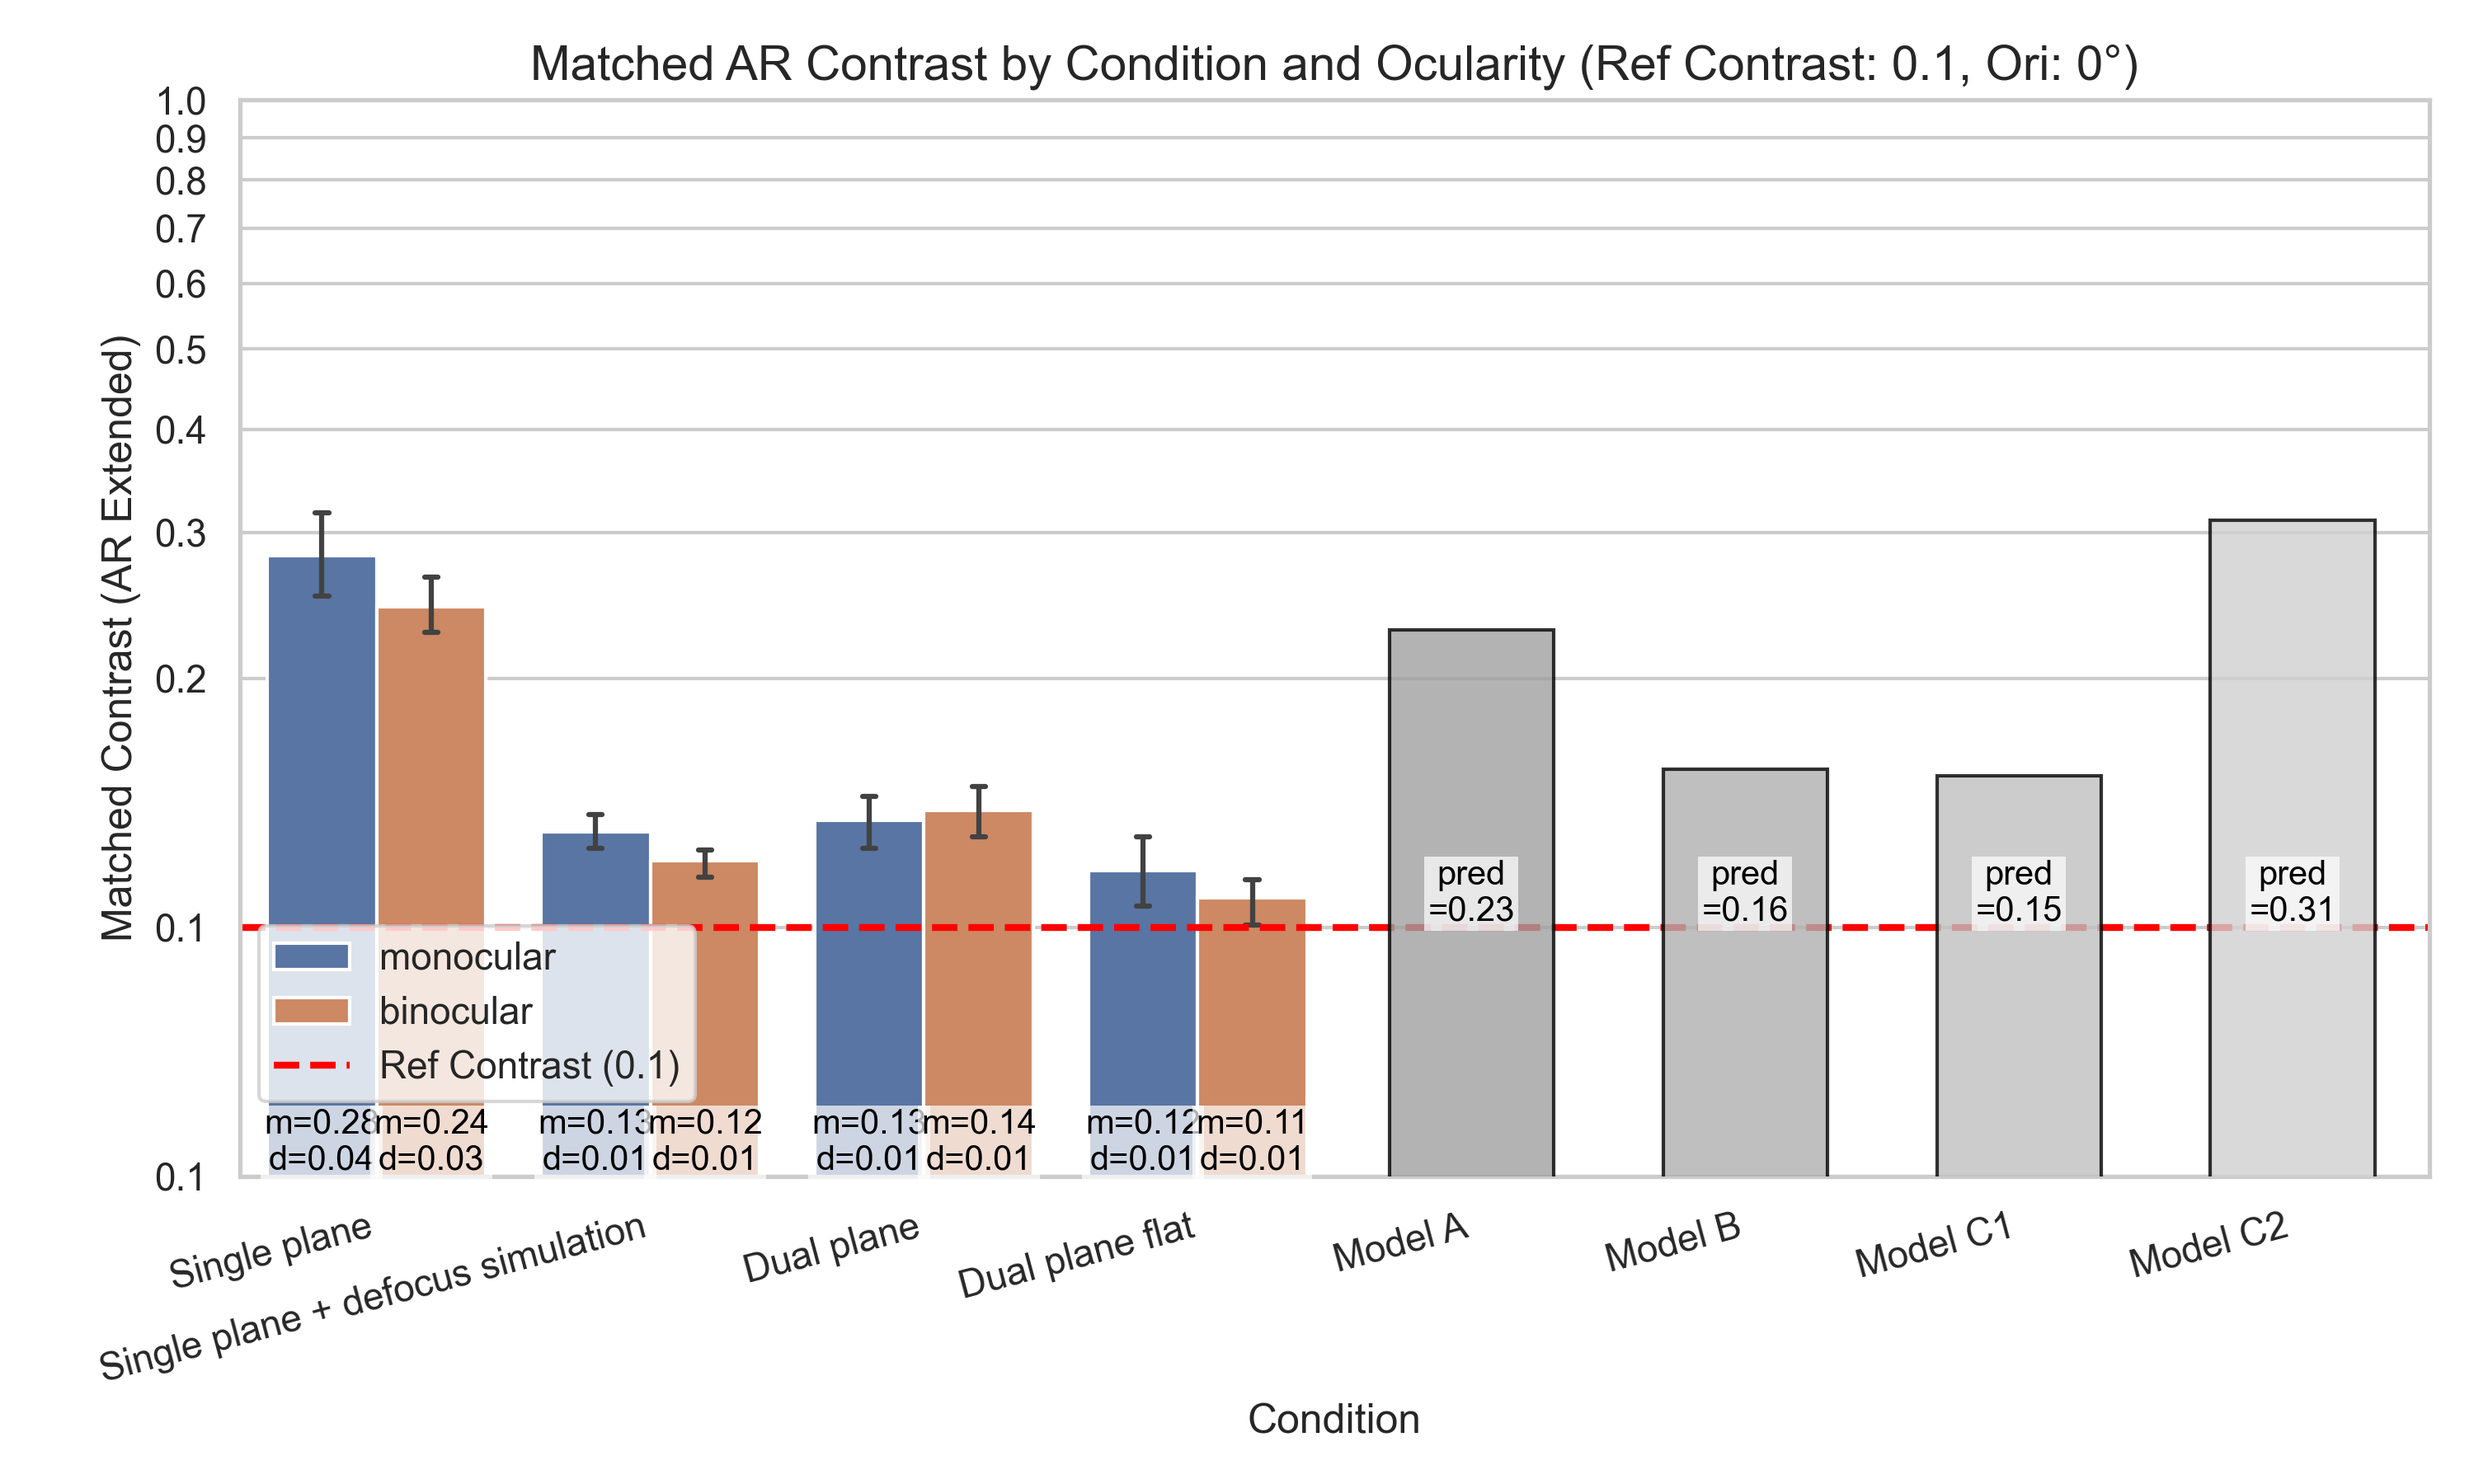
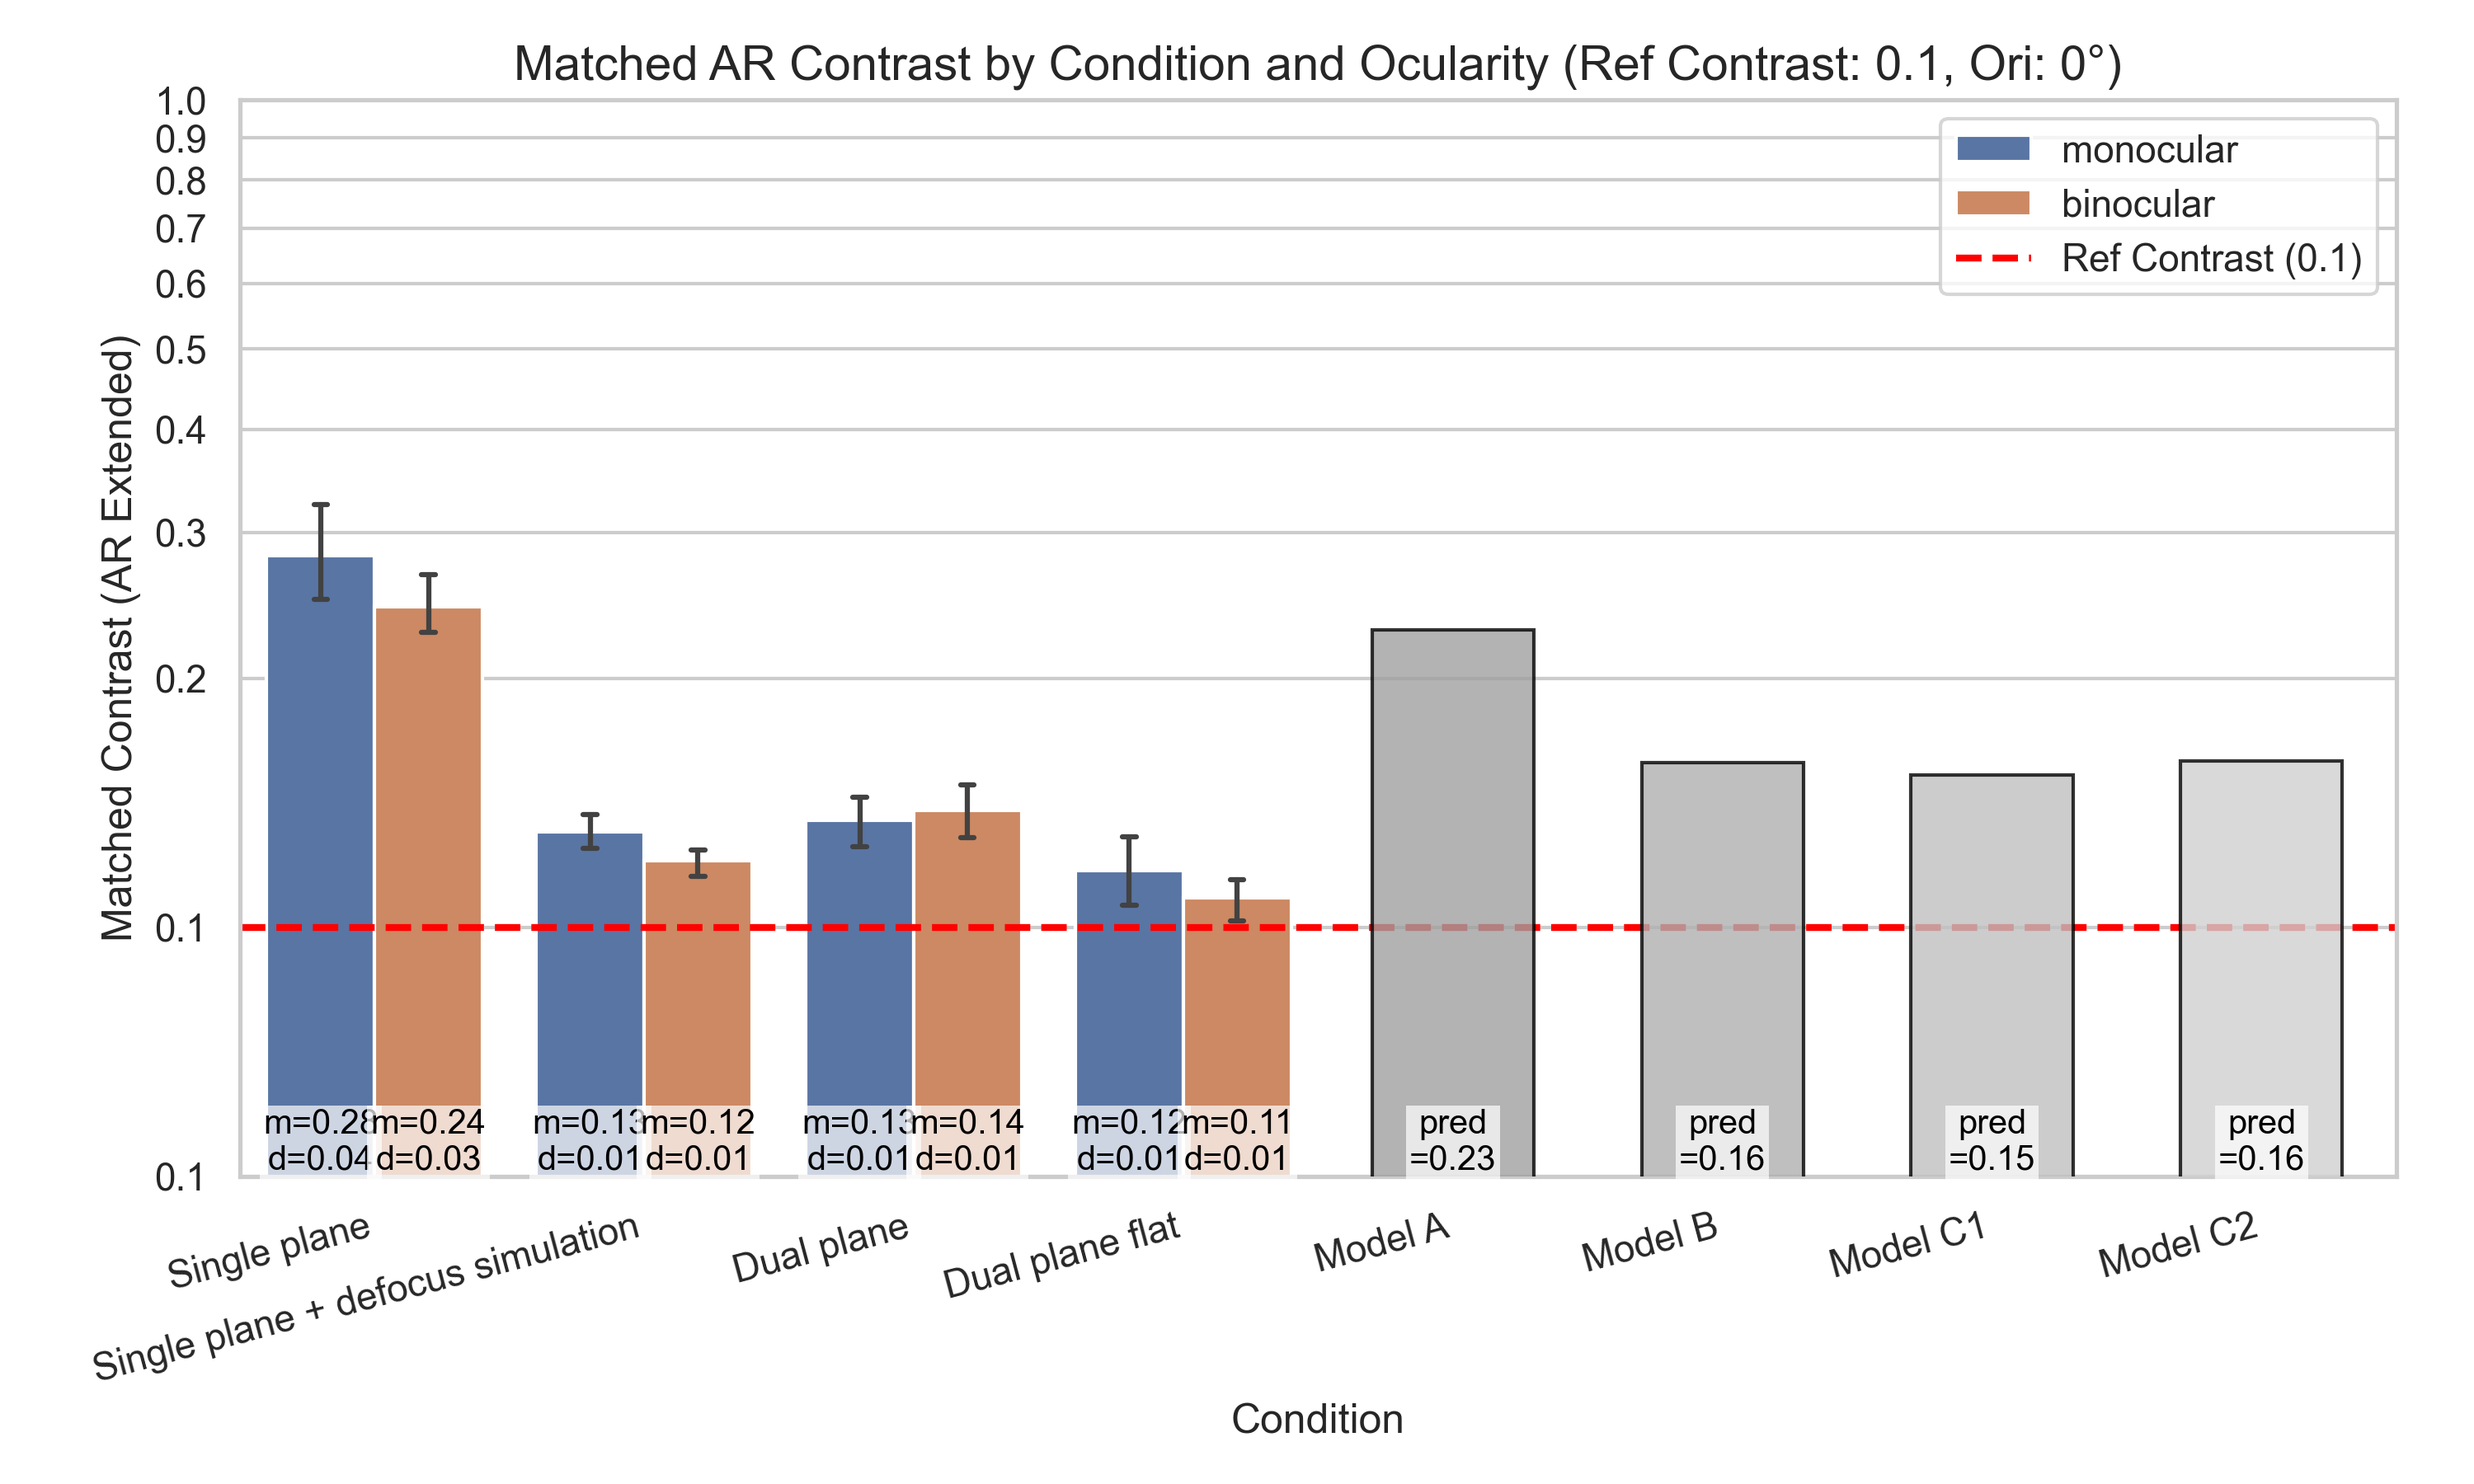
feat: モデルの修正
- C1: 固定重み0.2による背景減衰
- C2: 左右でBを計算して平均化

diff --git a/src/experiment/pre_analyze/pre-analyze-matching-ar.py b/src/experiment/pre_analyze/pre-analyze-matching-ar.py
@@ -153,6 +153,20 @@ def get_effective_c_bg(row):
         return calculate_blur_attenuation_cached(pd_val)
     return 1.0
 
+
+def get_effective_c_bg_eye(row, eye):
+    """指定眼(eye='Left'/'Right')のPDから背景blur減衰率を返す。
+       defocus simulation条件以外は1.0。"""
+    if row['Condition'] != 'Single plane + defocus simulation':
+        return 1.0
+    if eye == 'Left':
+        pd_val = row.get('PD_Left', 0)
+    else:
+        pd_val = row.get('PD_Right', 0)
+    if pd.isna(pd_val) or pd_val <= 0:
+        pd_val = 4.0
+    return calculate_blur_attenuation_cached(pd_val)
+
 # --- Enhanced contrast values ---
 print("\n--- Calculating effective background contrast and Enhanced Contrast ---")
 final_df['Effective_C_bg'] = final_df.apply(get_effective_c_bg, axis=1)
@@ -200,14 +214,19 @@ if not train_df.empty:
     for _, row in final_df.iterrows():
         C_val = torch.tensor(float(row['Ref_Contrast']), dtype=torch.float32).to(device)
         M_val = torch.tensor(1.0, dtype=torch.float32).to(device)
+
+        # dominant-eye ベースの既存の Effective_C_bg は ModelB/ModelC1 の blur に使う
         blur_val = torch.tensor(float(row.get('Effective_C_bg', 1.0)), dtype=torch.float32).to(device)
-        
+
+        # 左右眼それぞれの blur を取得（defocus 条件以外は 1.0）
+        blur_left = torch.tensor(float(get_effective_c_bg_eye(row, 'Left')), dtype=torch.float32).to(device)
+        blur_right = torch.tensor(float(get_effective_c_bg_eye(row, 'Right')), dtype=torch.float32).to(device)
+
         dom = row.get('Dominance', 'Right')
         if dom == 'Right':
             pd_val = row.get('PD_Right', 0)
         else:
             pd_val = row.get('PD_Left', 0)
-            
         if pd.isna(pd_val) or pd_val <= 0:
             pd_val = 0.0
         delta_D_val = torch.tensor(pd_val, dtype=torch.float32).to(device)
@@ -223,18 +242,19 @@ if not train_df.empty:
             beta_B = models['ModelB'].beta
             pb = torch.pow(C_val * (torch.pow(sigma_B, gamma_B) + beta_B * torch.pow(M_val * blur_val, gamma_B)), 1.0 / gamma_B).item()
 
+            # C1: g(delta_D) を定数 0.2 に置換
             gamma_C1 = models['ModelC1'].gamma
             sigma_C1 = models['ModelC1'].sigma
             beta_C1 = models['ModelC1'].beta
-            alpha_C1 = models['ModelC1'].alpha
-            g_D = torch.exp(-(delta_D_val ** 2) / (alpha_C1 + 1e-8))
-            pc1 = torch.pow(C_val * (torch.pow(sigma_C1, gamma_C1) + beta_C1 * torch.pow(M_val * blur_val * g_D, gamma_C1)), 1.0 / gamma_C1).item()
+            pc1 = torch.pow(C_val * (torch.pow(sigma_C1, gamma_C1) + beta_C1 * torch.pow(M_val * blur_val * 0.2, gamma_C1)), 1.0 / gamma_C1).item()
 
+            # C2: 左右の blur を使って各眼で B を計算し、その平均を予測値とする
             gamma_C2 = models['ModelC2'].gamma
             sigma_C2 = models['ModelC2'].sigma
             beta_C2 = models['ModelC2'].beta
-            S_prime_pow = C_val * (torch.pow(sigma_C2, gamma_C2) + beta_C2 * torch.pow(M_val * blur_val, gamma_C2))
-            pc2 = (torch.pow(S_prime_pow, 1.0 / gamma_C2) * ((L_fg + L_bg) / L_fg)).item()
+            b_left = torch.pow(C_val * (torch.pow(sigma_C2, gamma_C2) + beta_C2 * torch.pow(M_val * blur_left, gamma_C2)), 1.0 / gamma_C2)
+            b_right = torch.pow(C_val * (torch.pow(sigma_C2, gamma_C2) + beta_C2 * torch.pow(M_val * blur_right, gamma_C2)), 1.0 / gamma_C2)
+            pc2 = (0.5 * (b_left + b_right)).item()
 
         preds_A.append(pa)
         preds_B.append(pb)
@@ -534,22 +554,16 @@ for ref_c in unique_ref_contrasts:
                     patch_idx += 1
         # もしモデルが学習済みなら、Dual plane flatの右側に各モデルの予測値を1本ずつバーとしてプロット
         if models:
-            pds = []
-            for _, row in final_df.iterrows():
-                dom = row.get('Dominance', 'Right')
-                if dom == 'Right':
-                    pd_val = row.get('PD_Right', 0)
-                else:
-                    pd_val = row.get('PD_Left', 0)
-                if pd.notna(pd_val) and pd_val > 0:
-                    pds.append(pd_val)
-            avg_pd = sum(pds) / len(pds) if pds else 4.0
-            avg_blur = calculate_blur_attenuation_cached(avg_pd)
+            pds_left = [r for r in final_df['PD_Left'].tolist() if pd.notna(r) and r > 0]
+            pds_right = [r for r in final_df['PD_Right'].tolist() if pd.notna(r) and r > 0]
+            avg_pd_left = sum(pds_left) / len(pds_left) if pds_left else 4.0
+            avg_pd_right = sum(pds_right) / len(pds_right) if pds_right else 4.0
+            avg_blur_left = calculate_blur_attenuation_cached(avg_pd_left)
+            avg_blur_right = calculate_blur_attenuation_cached(avg_pd_right)
 
             C_val = torch.tensor(float(ref_c), dtype=torch.float32).to(device)
             M_val = torch.tensor(1.0, dtype=torch.float32).to(device)
-            blur_val = torch.tensor(avg_blur, dtype=torch.float32).to(device)
-            delta_D_val = torch.tensor(avg_pd, dtype=torch.float32).to(device)
+            blur_val = torch.tensor(0.5 * (avg_blur_left + avg_blur_right), dtype=torch.float32).to(device)
 
             with torch.no_grad():
                 gamma_A = models['ModelA'].gamma
@@ -562,18 +576,21 @@ for ref_c in unique_ref_contrasts:
                 beta_B = models['ModelB'].beta
                 pred_B = torch.pow(C_val * (torch.pow(sigma_B, gamma_B) + beta_B * torch.pow(M_val * blur_val, gamma_B)), 1.0 / gamma_B).item()
 
+                # C1: g を定数0.2
                 gamma_C1 = models['ModelC1'].gamma
                 sigma_C1 = models['ModelC1'].sigma
                 beta_C1 = models['ModelC1'].beta
-                alpha_C1 = models['ModelC1'].alpha
-                g_D = torch.exp(-(delta_D_val ** 2) / (alpha_C1 + 1e-8))
-                pred_C1 = torch.pow(C_val * (torch.pow(sigma_C1, gamma_C1) + beta_C1 * torch.pow(M_val * blur_val * g_D, gamma_C1)), 1.0 / gamma_C1).item()
+                pred_C1 = torch.pow(C_val * (torch.pow(sigma_C1, gamma_C1) + beta_C1 * torch.pow(M_val * blur_val * 0.2, gamma_C1)), 1.0 / gamma_C1).item()
 
+                # C2: 左右Bの平均
                 gamma_C2 = models['ModelC2'].gamma
                 sigma_C2 = models['ModelC2'].sigma
                 beta_C2 = models['ModelC2'].beta
-                S_prime_pow = C_val * (torch.pow(sigma_C2, gamma_C2) + beta_C2 * torch.pow(M_val * blur_val, gamma_C2))
-                pred_C2 = (torch.pow(S_prime_pow, 1.0 / gamma_C2) * ((L_fg + L_bg) / L_fg)).item()
+                bl = torch.tensor(avg_blur_left, dtype=torch.float32).to(device)
+                br = torch.tensor(avg_blur_right, dtype=torch.float32).to(device)
+                b_left = torch.pow(C_val * (torch.pow(sigma_C2, gamma_C2) + beta_C2 * torch.pow(M_val * bl, gamma_C2)), 1.0 / gamma_C2)
+                b_right = torch.pow(C_val * (torch.pow(sigma_C2, gamma_C2) + beta_C2 * torch.pow(M_val * br, gamma_C2)), 1.0 / gamma_C2)
+                pred_C2 = (0.5 * (b_left + b_right)).item()
 
             model_preds = [pred_A, pred_B, pred_C1, pred_C2]
             model_labels = ['Model A', 'Model B', 'Model C1', 'Model C2']
@@ -585,7 +602,7 @@ for ref_c in unique_ref_contrasts:
             for i, (pred_val, label, color) in enumerate(zip(model_preds, model_labels, model_colors)):
                 x_pos = base_x + i
                 ax.bar(x_pos, pred_val, width=bar_width, color=color, alpha=0.8, edgecolor='black', zorder=3)
-                ax.text(x_pos, 0.1, f"pred\n={pred_val:.2f}", ha='center', va='bottom', color='black', fontsize=10,
+                ax.text(x_pos, 0.05, f"pred\n={pred_val:.2f}", ha='center', va='bottom', color='black', fontsize=10,
                         bbox=dict(facecolor='white', alpha=0.7, edgecolor='none', pad=1))
             
             # x軸の範囲を更新
@@ -610,7 +627,7 @@ for ref_c in unique_ref_contrasts:
             ax.set_xticklabels(labels)
         
         handles, labels = ax.get_legend_handles_labels()
-        ax.legend(handles=handles, labels=labels, bbox_to_anchor=(0, 0.25), loc='upper left', borderaxespad=0.5)
+        ax.legend(handles=handles, labels=labels, bbox_to_anchor=(0.78, 1.0), loc='upper left', borderaxespad=0.5)
         
         plt.tight_layout()
         

diff --git a/src/experiment/pre_analyze/pre-analyze-matching-models.py b/src/experiment/pre_analyze/pre-analyze-matching-models.py
@@ -126,31 +126,26 @@ class ModelB(ContrastMatchingModelBase):
         return num / den
 
 class ModelC1(ContrastMatchingModelBase):
-    """ C = S^gamma / (sigma^gamma + beta * (f(M) * g(delta_D))^gamma) """
-    def __init__(self):
-        super().__init__()
-        self.raw_alpha = nn.Parameter(torch.tensor(1.0)) # ガウス関数の分散パラメータ
-        
-    @property
-    def alpha(self): return F.softplus(self.raw_alpha)
+    """ C1: B の g(delta_D) を定数 0.2 で代用
+        C = S^gamma / (sigma^gamma + beta * (f(M) * 0.2)^gamma) """
+    G_CONST = 0.2  # g(delta_D) の代用定数（背景割引）
 
-    def forward(self, S, M, blur_attenuation, delta_D, **kwargs):
+    def forward(self, S, M, blur_attenuation, **kwargs):
         f_M = M * blur_attenuation
-        g_D = torch.exp(- (delta_D ** 2) / (self.alpha + 1e-8))
-        
         num = torch.pow(S + 1e-8, self.gamma)
-        den = torch.pow(self.sigma, self.gamma) + self.beta * torch.pow(f_M * g_D + 1e-8, self.gamma)
+        den = torch.pow(self.sigma, self.gamma) + self.beta * torch.pow(f_M * self.G_CONST + 1e-8, self.gamma)
         return num / den
 
 class ModelC2(ContrastMatchingModelBase):
-    """ C = S'^gamma / (sigma^gamma + beta * f(M)^gamma) """
-    def forward(self, S, M, blur_attenuation, L_fg, L_bg, **kwargs):
-        S_prime = S * (L_fg / (L_fg + L_bg))
-        f_M = M * blur_attenuation
-        
-        num = torch.pow(S_prime + 1e-8, self.gamma)
-        den = torch.pow(self.sigma, self.gamma) + self.beta * torch.pow(f_M + 1e-8, self.gamma)
-        return num / den
+    """ C2: 左右眼それぞれで B を計算し平均（disparity / 左右blur差の影響を反映）
+        C = mean_eyes( S^gamma / (sigma^gamma + beta * f(M)^gamma) ) """
+    def forward(self, S, M, blur_attenuation_left, blur_attenuation_right, **kwargs):
+        num = torch.pow(S + 1e-8, self.gamma)
+        f_M_L = M * blur_attenuation_left
+        f_M_R = M * blur_attenuation_right
+        den_L = torch.pow(self.sigma, self.gamma) + self.beta * torch.pow(f_M_L + 1e-8, self.gamma)
+        den_R = torch.pow(self.sigma, self.gamma) + self.beta * torch.pow(f_M_R + 1e-8, self.gamma)
+        return 0.5 * (num / den_L + num / den_R)
 
 
 # ==========================================
